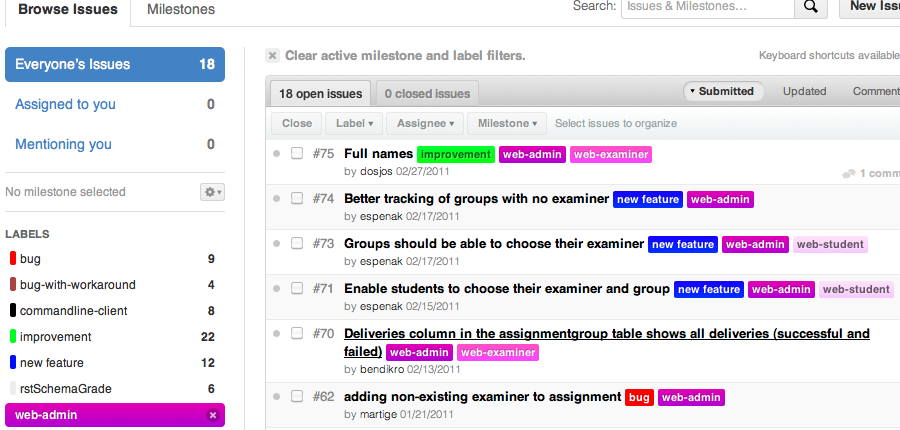
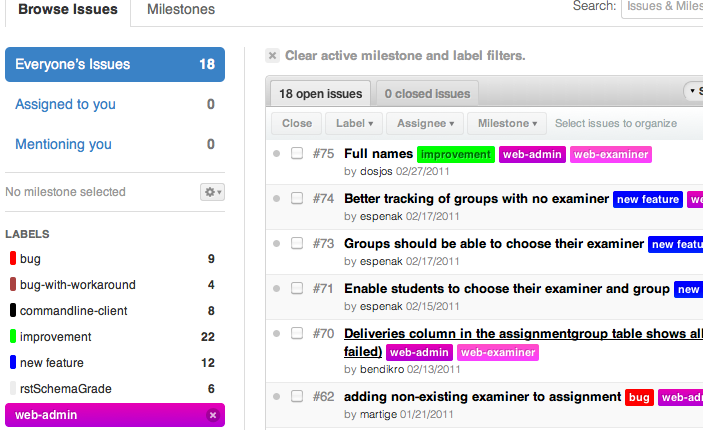
Updated the slideshow.

diff --git a/index.html b/index.html
@@ -36,9 +36,31 @@
     <div id="s3slider">
        <ul id="s3sliderContent">
           <li class="s3sliderImage">
-              <img src="slideshow/student-dash.png" />
+              <img src="slideshow/frontpage.png" />
+              <span><em class='picthead'>Devilry handles</em> all parts of the
+                      electronic delivery and feedback process.</span>
+          </li>
+
+          <li class="s3sliderImage">
+              <img src="slideshow/courseadmin-assignmentoverview.png" />
               <span><em class='picthead'>Devilry is</em>
-                  easy for students</span>
+                  is a complete tool for course administrators that want to have complete control over their assignments, students and examiners.</span>
+          </li>
+          <li class="s3sliderImage">
+              <img src="slideshow/courseadmin-managestudents.png" />
+              <span><em class='picthead'>Devilry is</em>
+                  easy and effective for course administrators with simple needs.</span>
+          </li>
+          <li class="s3sliderImage">
+              <img src="slideshow/courseadmin-singlegroup.png" />
+              <span><em class='picthead'>Devilry provides</em>
+                  the information course administrators need about their students.</span>
+          </li>
+
+          <li class="s3sliderImage">
+              <img src="slideshow/courseadmin-managestudents-select.png" />
+              <span><em class='picthead'>Devilry has</em>
+                  powerful tools for course administrators with lots of students.</span>
           </li>
 
           <li class="s3sliderImage">
@@ -49,10 +71,22 @@
           </li>
 
           <li class="s3sliderImage">
-              <img src="slideshow/examiner-dash.png" />
-              <span><em class='picthead'>Devilry provides</em>
-                  examiners with instant access to what they usually need via
-                  their dashboard</span>
+              <img src="slideshow/studentdash.png" />
+              <span><em class='picthead'>Devilry is</em>
+                  easy for students.</span>
+          </li>
+
+          <li class="s3sliderImage">
+              <img src="slideshow/courseadmin-projectgroups.png" />
+              <span><em class='picthead'>Devilry has</em>
+                  excellent support for cooperative project assignments.</span>
+          </li>
+
+          <li class="s3sliderImage">
+              <img src="slideshow/examiner-todolist.png" />
+              <span><em class='picthead'>Devilry provides</em> examiners with a
+                  TODO-list and a detailed overview, enabling them to keep
+                  track of their students.</span>
           </li>
 
           <li class="s3sliderImage">
@@ -62,39 +96,10 @@
           </li>
 
           <li class="s3sliderImage">
-              <img src="slideshow/examiner-overview.png" />
-              <span><em class='picthead'>Devilry provides</em>
-                  examiners with a detailed overview, enabling them to keep
-                  track of their assignment students or groups of
-                  students</span>
-          </li>
-
-          <li class="s3sliderImage">
               <img src="slideshow/examiner-feedback.png" />
-              <span><em class='picthead'>Devilry comes with</em>
-                  powerful tools for every step of the process of producing feedback to students</span>
-          </li>
-
-          <li class="s3sliderImage">
-              <img src="slideshow/statistics.png" />
-              <span><em class='picthead'>Devilry can show</em>
-                  a detailed overview of all students on a subject within a
-                  given period</span>
-          </li>
-
-          <li class="s3sliderImage">
-              <img src="slideshow/student-stats.png" />
-              <span><em class='picthead'>Devilry allows</em>
-                  students to see their own statistics, and administrators to
-                  view statistics for each student.</span>
-          </li>
-
-          <li class="s3sliderImage">
-              <img src="slideshow/assignment-admin-groups.png" />
-              <span><em class='picthead'>Devilry allows</em>
-                  administrators to manage each assignment in detail, however
-                  they are also provided with shortcuts for common
-                  actions.</span>
+              <span><em class='picthead'>Devilry comes with</em> powerful tools
+                  for every step of the process of producing feedback to
+                  students</span>
           </li>
 
           <div class="clear s3sliderImage"></div>

diff --git a/s3slider.css b/s3slider.css
@@ -7,7 +7,7 @@
 
 #s3slider { 
     border: 1px solid #ccc;
-    width: 900px; /* important to be same as image width */ 
+    width: 703px; /* important to be same as image width */ 
     height: 430px; /* important to be same as image height */
     position: relative; /* important */
     overflow: hidden; /* important */
